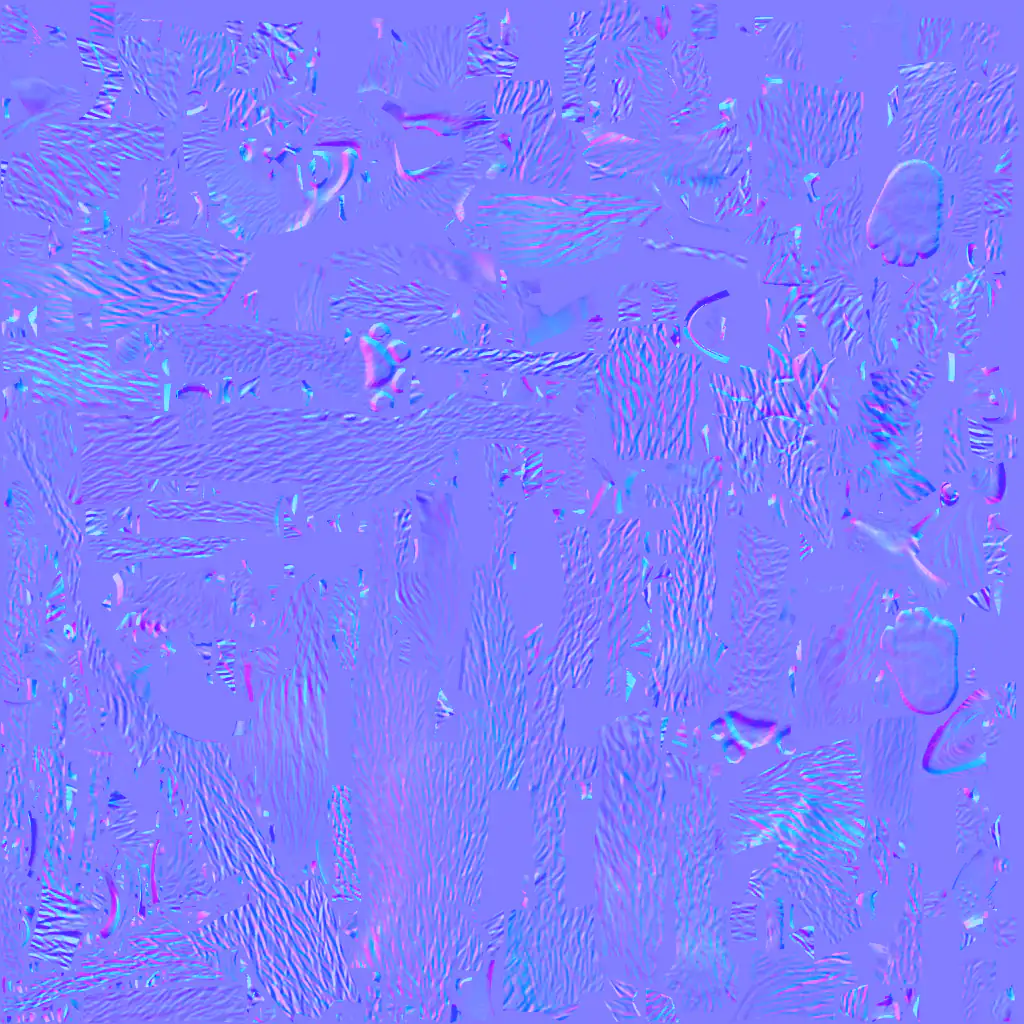
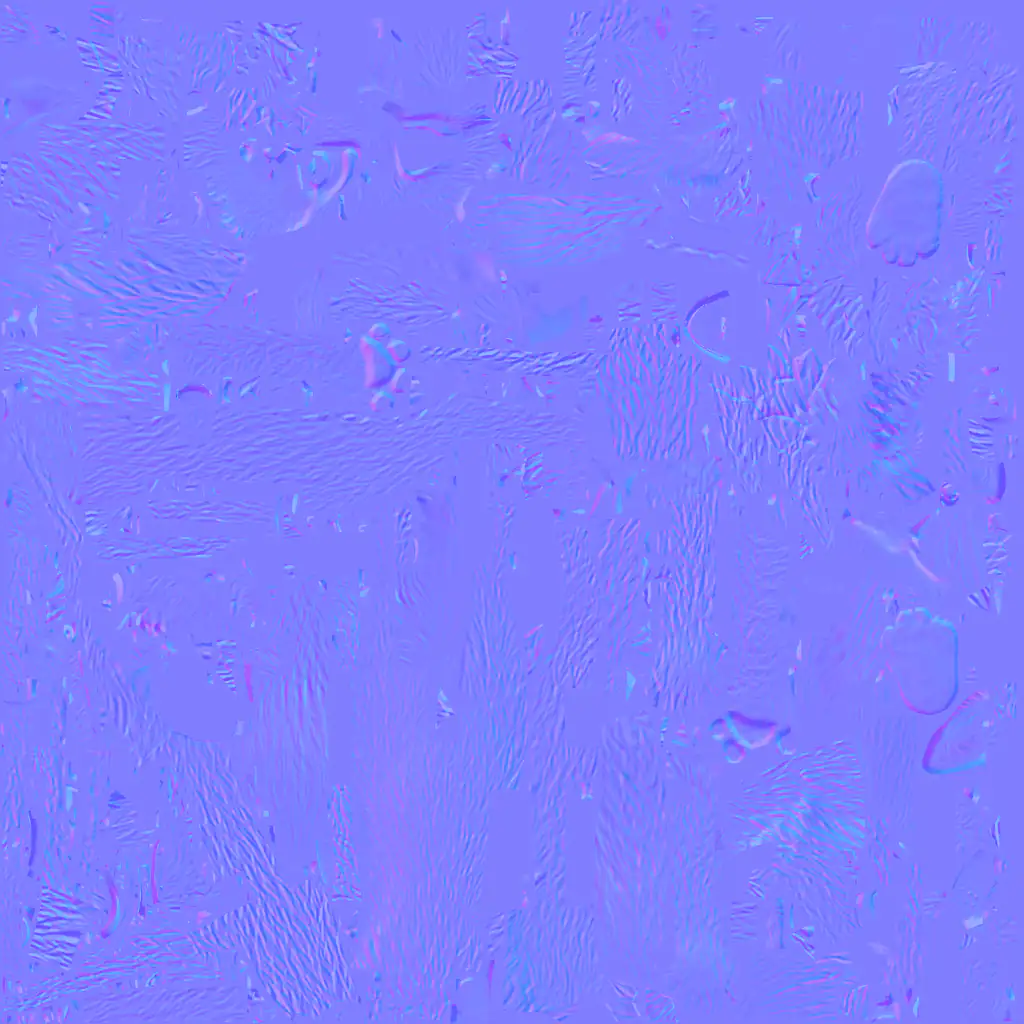
fix(tools): make the fur of the wolf softer
The wolf maps showed the full fine detail of the source, which read as
carved grooves in the hall light. The normal map now keeps 0.5 of the
source tilts (TILT_SHARE), and the color map keeps 0.7 of the detail
finer than a blur of 2 texels (DETAIL_SHARE). The colors stay.

diff --git a/tools/wolf-maps.py b/tools/wolf-maps.py
@@ -12,7 +12,7 @@ import sys
 import tempfile
 
 import numpy as np
-from PIL import Image
+from PIL import Image, ImageFilter
 
 SOURCE = 'assets/models/wolf/tripo-p2/wolf.fbm/wolf_basecolor.jpg'
 NORMAL_SOURCE = 'assets/models/wolf/tripo-p2/wolf.fbm/wolf_normal.jpg'
@@ -25,20 +25,31 @@ QUALITY = 60
 #: (`NORMAL_MAP_GAIN` of src/scene/fur.ts). A larger tilt is a baked edge of the source mesh.
 NORMAL_LIMIT = 0.2
 NORMAL_GAIN = 4
+#: The share of the fine detail of the source that the maps keep: the tilts of the normal map, and
+#: the color detail finer than DETAIL_RADIUS texels at SIZE. The full detail read as carved grooves
+#: in the hall light, so the fur is softer, as on the fox and the rabbit.
+TILT_SHARE = 0.5
+DETAIL_SHARE = 0.7
+DETAIL_RADIUS = 2.0
 
 
 def color_map():
-    """Writes the color map: the source scaled to SIZE (Lanczos), WebP quality QUALITY, method 6."""
+    """Writes the color map: the source scaled to SIZE (Lanczos), with DETAIL_SHARE of its detail
+    finer than DETAIL_RADIUS, WebP quality QUALITY, method 6."""
     image = Image.open(SOURCE).convert('RGB').resize((SIZE, SIZE), Image.LANCZOS)
+    sharp = np.asarray(image).astype(np.float64)
+    soft = np.asarray(image.filter(ImageFilter.GaussianBlur(DETAIL_RADIUS))).astype(np.float64)
+    mixed = soft + DETAIL_SHARE * (sharp - soft)
+    image = Image.fromarray(np.clip(np.round(mixed), 0, 255).astype(np.uint8))
     image.save(COLOR_OUT, 'WEBP', quality=QUALITY, method=6)
     print(f'{COLOR_OUT}: {SIZE} x {SIZE}, {os.path.getsize(COLOR_OUT)} bytes')
 
 
 def normal_map():
     """Writes the normal map of the fur: each x, y tilt of the source limited to the length
-    NORMAL_LIMIT, a box scale to NORMAL_SIZE, then the tilts times NORMAL_GAIN in red and green,
-    255 in blue (the shader does not read it), and cwebp -q 60 -sharp_yuv -m 6. The limit comes
-    before the gain, so that no stored value clips."""
+    NORMAL_LIMIT, a box scale to NORMAL_SIZE, then the tilts times TILT_SHARE and NORMAL_GAIN in
+    red and green, 255 in blue (the shader does not read it), and cwebp -q 60 -sharp_yuv -m 6. The
+    limit comes before the gain, so that no stored value clips."""
     a = np.asarray(Image.open(NORMAL_SOURCE).convert('RGB')).astype(np.float64) / 255 * 2 - 1
     t = a[..., :2].copy()
     length = np.linalg.norm(t, axis=-1)
@@ -46,7 +57,7 @@ def normal_map():
     t[over] *= (NORMAL_LIMIT / length[over])[:, None]
     k = t.shape[0] // NORMAL_SIZE
     small = t.reshape(NORMAL_SIZE, k, NORMAL_SIZE, k, 2).mean(axis=(1, 3))
-    v = np.clip(small * NORMAL_GAIN, -1, 1)
+    v = np.clip(small * TILT_SHARE * NORMAL_GAIN, -1, 1)
     rgb = np.zeros((NORMAL_SIZE, NORMAL_SIZE, 3), np.uint8)
     rgb[..., :2] = np.round((v + 1) / 2 * 255).astype(np.uint8)
     rgb[..., 2] = 255

diff --git a/assets/models/wolf/README.md b/assets/models/wolf/README.md
@@ -232,14 +232,15 @@ does not reach between the knees: the clarinet is shorter than the line from the
 The folds of the arms (`pnpm arm-check`, folds p95) go from 53 to 66 (left) and from 48 to 55
 (right), over the limit of 8 before and after (`TODO.md`).
 
-**Color map** (`tools/wolf-maps.py`). The tool scales the source to 2048 pixels (Lanczos) and writes
-WebP quality 60, method 6 (Pillow 13.0.0). No texel changes its color: the fur, the brows, and the
-eye paint stay. The eyes keep the iris place of the source. In the play view of the app the gaze
+**Color map** (`tools/wolf-maps.py`). The tool scales the source to 2048 pixels (Lanczos), keeps
+0.7 of its detail finer than a blur of 2 texels (`DETAIL_SHARE`), and writes WebP quality 60,
+method 6 (Pillow 13.0.0). Reason: the full detail read as carved grooves in the hall light. The
+colors of the fur, the brows, and the eye paint stay. The eyes keep the iris place of the source. In the play view of the app the gaze
 reads as a look at the viewer, so no iris moves.
 
 **Normal map.** The same run writes `wolf-normal.webp` from the normal map of the FBX: each x, y
-tilt limited to 0.2 (5.15 % of the texels), a box scale to 1024 pixels, the tilts times 4 in red and
-green, 255 in blue, and `cwebp -q 60 -sharp_yuv -m 6` (libwebp 1.5.0).
+tilt limited to 0.2 (5.15 % of the texels), a box scale to 1024 pixels, the tilts times 0.5
+(`TILT_SHARE`) and 4 in red and green, 255 in blue, and `cwebp -q 60 -sharp_yuv -m 6` (libwebp 1.5.0).
 
 **Differences from the source.** The app light is warm and comes from above, so the gray fur reads
 lighter and warmer than in the even gray light of an FBX viewer, and the chin shades darker. The
@@ -251,5 +252,5 @@ The export of the file and the maps. License of each file: CC BY-NC 4.0, as the 
 |---|---|---|
[6 lines of base64/hex data omitted]
